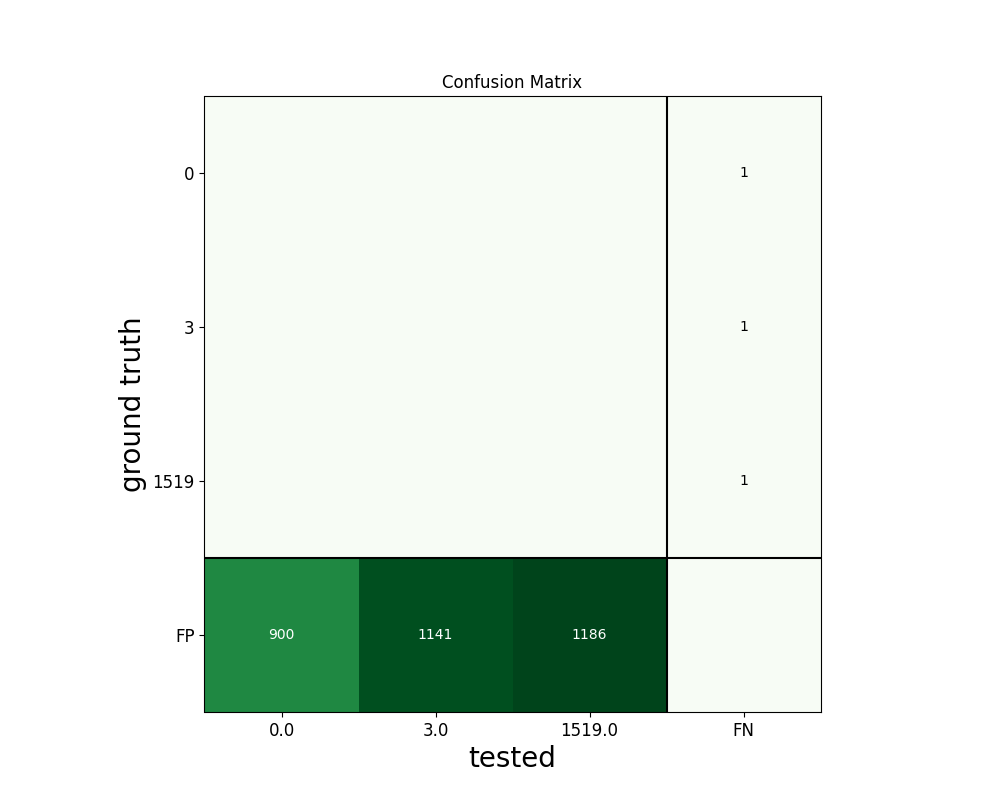
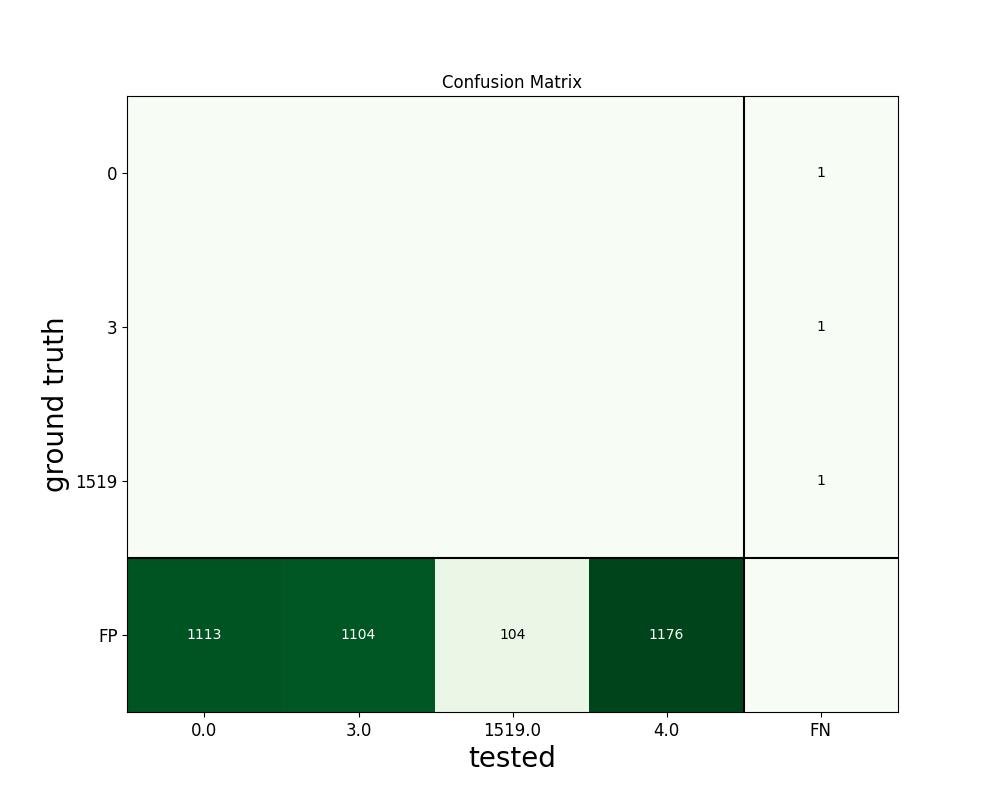
Updated Parameter Tuning Function

diff --git a/singlechannelMS5.py b/singlechannelMS5.py
@@ -73,10 +73,19 @@ def load_ground_truth(file_path, samplerate):
         se.NumpySorting: Ground truth sorting object.
     """
     ground_truth_data = np.load(file_path)
+    print("Debug: Ground truth data shape:", ground_truth_data.shape)
+    print("Debug: Ground truth data first few rows:")
+    print(ground_truth_data[:10])
+    
     spike_times = ground_truth_data[:, 1].astype(int)
     spike_labels = ground_truth_data[:, 2].astype(int)
     unit_ids = np.unique(spike_labels)
     spike_trains = [spike_times[spike_labels == unit_id] for unit_id in unit_ids]
+    
+    print("Debug: Number of unique units:", len(unit_ids))
+    print("Debug: Unit IDs:", unit_ids)
+    print("Debug: Spike counts per unit:", [len(st) for st in spike_trains])
+    
     sorting_true = se.NumpySorting.from_times_labels(
         times_list=spike_trains,
         labels_list=unit_ids.tolist(),
@@ -147,9 +156,9 @@ def parameter_tuning(recording_cached, ground_truth, data_info):
         float: Best performance score.
     """
     # Define parameter ranges to test
-    detect_thresholds = [5, 6, 7, 8]
-    npca_per_channels = [3, 5, 7]
-    detect_time_radius_msecs = [0.3, 0.5, 0.7]
+    detect_thresholds = [3, 4, 5, 6, 7, 8, 9, 10]
+    npca_per_channels = [3, 5, 7, 9]
+    detect_time_radius_msecs = [0.3, 0.5, 0.7, 0.9]
 
     best_sorting = None
     best_params = None
@@ -187,6 +196,7 @@ def parameter_tuning(recording_cached, ground_truth, data_info):
                 }
                 
                 print(f"Params: {current_params}, Score: {score}, Units: {len(sorting.get_unit_ids())}")
+                print(f"Performance: {performance}")
                 
                 if score > best_score or best_sorting is None:
                     best_score = score
@@ -234,7 +244,7 @@ def match_and_relabel_units(sorting, sorting_true):
     # Create a new sorting object with relabeled units
     return se.NumpySorting.from_unit_dict(relabeled_spike_trains, sampling_frequency=sorting.get_sampling_frequency())
 
-def match_and_relabel_units(sorting, sorting_true, delta_frames=10):
+def match_and_relabel_units(sorting, sorting_true, delta_frames=120):
     """
     Match units from sorting to sorting_true and relabel them accordingly,
     allowing for small time differences in spike times.
@@ -251,16 +261,17 @@ def match_and_relabel_units(sorting, sorting_true, delta_frames=10):
     print(f"Debug: Sorting units: {sorting.get_unit_ids()}")
     print(f"Debug: Ground truth units: {sorting_true.get_unit_ids()}")
 
-    # Compute the confusion matrix
-    confusion_matrix = match_spikes(sorting_true, sorting, delta_frames)
+    confusion_matrix = np.zeros((max(len(sorting.get_unit_ids()), len(sorting_true.get_unit_ids())),
+                                 max(len(sorting.get_unit_ids()), len(sorting_true.get_unit_ids()))))
+
     for i, unit1 in enumerate(sorting.get_unit_ids()):
         spikes1 = sorting.get_unit_spike_train(unit1)
         for j, unit2 in enumerate(sorting_true.get_unit_ids()):
-            spikes2 = sorting_true.get_unit_spike_train(unit2)
-            matches = 0
-            for spike in spikes1:
-                if np.any(np.abs(spikes2 - spike) <= delta_frames):
-                    matches += 1
+            spikes2 = []
+            for segment in range(sorting_true.get_num_segments()):
+                spikes2.extend(sorting_true.get_unit_spike_train(unit2, segment_index=segment))
+            spikes2 = np.array(spikes2)
+            matches = np.sum(np.min(np.abs(spikes1[:, None] - spikes2[None, :]), axis=1) <= delta_frames)
             confusion_matrix[i, j] = matches
 
     print("Debug: Confusion matrix:")
@@ -270,7 +281,7 @@ def match_and_relabel_units(sorting, sorting_true, delta_frames=10):
     row_ind, col_ind = linear_sum_assignment(-confusion_matrix)
 
     # Create a mapping from old labels to new labels
-    label_map = {sorting.get_unit_ids()[i]: sorting_true.get_unit_ids()[j] for i, j in zip(row_ind, col_ind)}
+    label_map = {sorting.get_unit_ids()[i]: sorting_true.get_unit_ids()[j] for i, j in zip(row_ind, col_ind) if j < len(sorting_true.get_unit_ids())}
     print(f"Debug: Label map: {label_map}")
 
     # Relabel the sorting
@@ -404,7 +415,7 @@ def calculate_performance_metrics(sorting_true, sorting_tested, delta_frames=10)
     
     return unit_metrics
 
-def match_spikes(sorting1, sorting2, delta_frames=10):
+def match_spikes(sorting1, sorting2, delta_frames=120):  # 5ms at 24kHz
     """
     Match spikes between two sortings with a time window.
     
@@ -417,19 +428,55 @@ def match_spikes(sorting1, sorting2, delta_frames=10):
     """
     confusion_matrix = np.zeros((len(sorting1.get_unit_ids()), len(sorting2.get_unit_ids())))
     
-    # Calculate overall time offset
-    all_spikes1 = np.concatenate([sorting1.get_unit_spike_train(u) for u in sorting1.get_unit_ids()])
-    all_spikes2 = np.concatenate([sorting2.get_unit_spike_train(u) for u in sorting2.get_unit_ids()])
-    time_offset = np.median(all_spikes1) - np.median(all_spikes2)
-    
     for i, unit1 in enumerate(sorting1.get_unit_ids()):
-        spikes1 = sorting1.get_unit_spike_train(unit1)
+        spikes1 = []
+        for segment in range(sorting1.get_num_segments()):
+            spikes1.extend(sorting1.get_unit_spike_train(unit1, segment_index=segment))
+        spikes1 = np.array(spikes1)
+        
         for j, unit2 in enumerate(sorting2.get_unit_ids()):
-            spikes2 = sorting2.get_unit_spike_train(unit2) + time_offset
+            spikes2 = sorting2.get_unit_spike_train(unit2)
             matches = np.sum(np.min(np.abs(spikes1[:, None] - spikes2[None, :]), axis=1) <= delta_frames)
             confusion_matrix[i, j] = matches
     
     return confusion_matrix
+
+def plot_spike_comparison(sorting, sorting_true, window_start=0, window_end=10000):
+    fig, ax = plt.subplots(figsize=(15, 5))
+    for i, unit in enumerate(sorting.get_unit_ids()):
+        spike_train = sorting.get_unit_spike_train(unit)
+        mask = (spike_train >= window_start) & (spike_train < window_end)
+        ax.plot(spike_train[mask], [i]*sum(mask), '|', markersize=10, label=f'Sorted Unit {unit}')
+    
+    for i, unit in enumerate(sorting_true.get_unit_ids()):
+        spike_trains = []
+        for segment in range(sorting_true.get_num_segments()):
+            spike_trains.extend(sorting_true.get_unit_spike_train(unit, segment_index=segment))
+        spike_train = np.array(spike_trains)
+        mask = (spike_train >= window_start) & (spike_train < window_end)
+        ax.plot(spike_train[mask], [i-0.5]*sum(mask), '|', markersize=10, label=f'Ground Truth Unit {unit}')
+    
+    ax.set_xlabel('Time (samples)')
+    ax.set_ylabel('Unit')
+    ax.set_title('Sorted vs Ground Truth Spike Times')
+    ax.legend()
+    plt.tight_layout()
+    plt.savefig('spike_comparison.png')
+    plt.close()
+
+def print_sample_spike_times(sorting, sorting_true):
+    print("Sample spike times:")
+    for unit in sorting.get_unit_ids():
+        spike_train = sorting.get_unit_spike_train(unit)
+        print(f"Sorted Unit {unit}: {spike_train[:10]}")
+    
+    for unit in sorting_true.get_unit_ids():
+        spike_trains = []
+        for segment in range(sorting_true.get_num_segments()):
+            spike_trains.extend(sorting_true.get_unit_spike_train(unit, segment_index=segment))
+        print(f"Ground Truth Unit {unit}: {spike_trains[:10]}")
+
+
 
 def main():
     # Data file information
@@ -489,6 +536,10 @@ def main():
 
             print(f'Best parameters: {best_params}')
             print(f'Best score: {best_score}')
+
+           # Plot spike times
+            print_sample_spike_times(best_sorting, sorting_true)
+            plot_spike_comparison(best_sorting, sorting_true)
 
             # Print sorting results
             print('Sorting results:')
